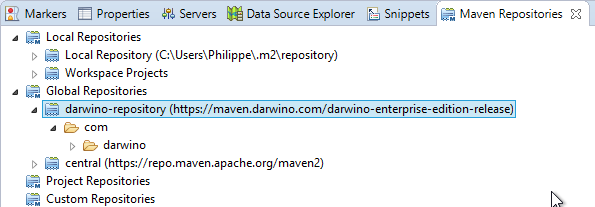
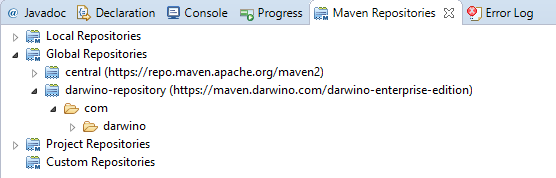
Updated installation Wiki Documentation

Changed region(s): [[0.0, 0.0, 1.0, 0.6461], [0.0, 0.6742, 0.5504, 1.0], [0.9173, 0.927, 0.9478, 1.0]]

diff --git a/Installing Eclipse.md b/Installing Eclipse.md
@@ -36,25 +36,20 @@ Marketplace or by selecting `Help->Install New Software...`, then use the
 provided update site URL
 
 -   For developing Web (J2EE) applications
-
-    -   M2E WTP **Note**: your version of Eclipse J2EE edition, if it is recent enough, might
-        already have this feature installed. In this case, just skip this step.
-        Select `Help->Eclipse Marketplace...` and search for `m2e wtp`. Be
-        careful to install m2e-wtp matching your Eclipse version and *not*
-        m2eclipse-wtp, which is deprecated.
+    -   M2E WTP **Note**: your version of Eclipse J2EE edition, if it is recent enough, might already have this feature installed. In this case, just skip this step. Select `Help->Eclipse Marketplace...` and search for `m2e wtp`. Be careful to install m2e-wtp matching your Eclipse version and *not* m2eclipse-wtp, which is deprecated.
 
 -   If Android is a desired target platform
-
-    -   Android Development Tools (aka ADT), Select `Help->Eclipse
-        Marketplace...` and search for `android adt`.
-
-    -   Android for Maven Eclipse Select `Help->Eclipse Marketplace...` and
-        search for `m2e android`.
+    -   Android Development Tools (aka ADT), Select `Help->Eclipse->Marketplace...` and search for `android adt`.
+    -   Android for Maven Eclipse Select `Help->Eclipse Marketplace...` and search for `m2e android`.
 
 -   If iOS is a desired target platform
-
     -   RoboVM, Follow the instructions under "*RoboVM for Eclipse*" from
-        <http://docs.robovm.com/getting-started/eclipse.html>
+<http://docs.robovm.com/getting-started/eclipse.html>
+
+-   If IBM Domino is a desired target platform
+    -   The Darwino project wizard as well as the sample applications use Tycho to target OSGi platforms (Eclipse, IBM Domino...). As a result, it requires the Tycho m2e connector to be installed. The easiest way to get it installed is to wait from Eclipse to display a build problem (see bellow), right click on the issue and choose quick fix. Eclipse will automatically propose to download and install the connector.
+![](<eclipse-maventycho.png>)
+
 
 Installing the Darwino Studio add-on
 ------------------------------------

diff --git a/Maven-Settings.md b/Maven-Settings.md
@@ -20,7 +20,7 @@ If the file does not yet exist, this link will be absent. In that case, create a
 					<repository>
 						<id>darwino-repository</id>
 						<name>Darwino Platform</name>
-						<url>https://maven.darwino.com/darwino-enterprise-edition-release</url>
+						<url>https://maven.darwino.com/darwino-enterprise-edition</url>
 					</repository>
 				</repositories>
 			</profile>
@@ -40,9 +40,9 @@ If the file does not yet exist, this link will be absent. In that case, create a
 Of course, you have to set your own user and password and, depending on the edition you are
 willing to use, set the repository URL to:
 - Enterprise Edition
-	<https://maven.darwino.com/darwino-enterprise-edition-release>
+	<https://maven.darwino.com/darwino-enterprise-edition>
 - Community Edition
-	<https://maven.darwino.com/darwino-community-edition-release>
+	<https://maven.darwino.com/darwino-community-edition>
 
 To validate that your maven settings are correct, display the Maven Repositories view in
 eclipse (`Window->Show View->Other...`). Hit the refresh button to make the Darwino repository appear. Finally, right click on this repository and select `Rebuild Index`,. As a result, you should see the Darwino assets like in:
@@ -101,7 +101,7 @@ Here is an example of a complete settings.xml containing the remote repository u
 					<repository>
 						<id>darwino-repository</id>
 						<name>Darwino Platform</name>
-						<url>https://maven.darwino.com/darwino-enterprise-edition-release</url>
+						<url>https://maven.darwino.com/darwino-enterprise-edition</url>
 					</repository>
 				</repositories>
 			</profile>
